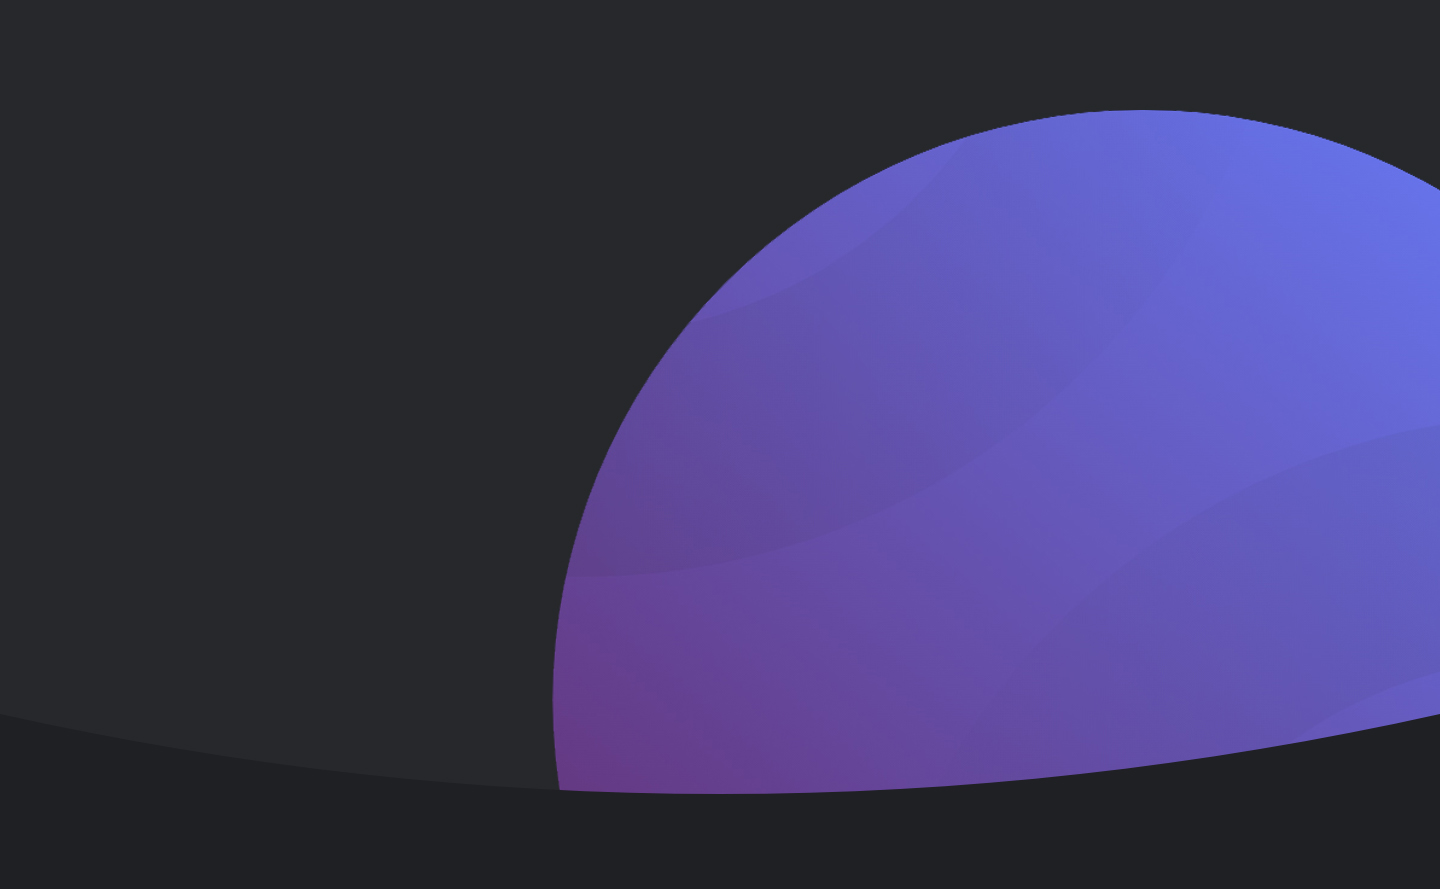
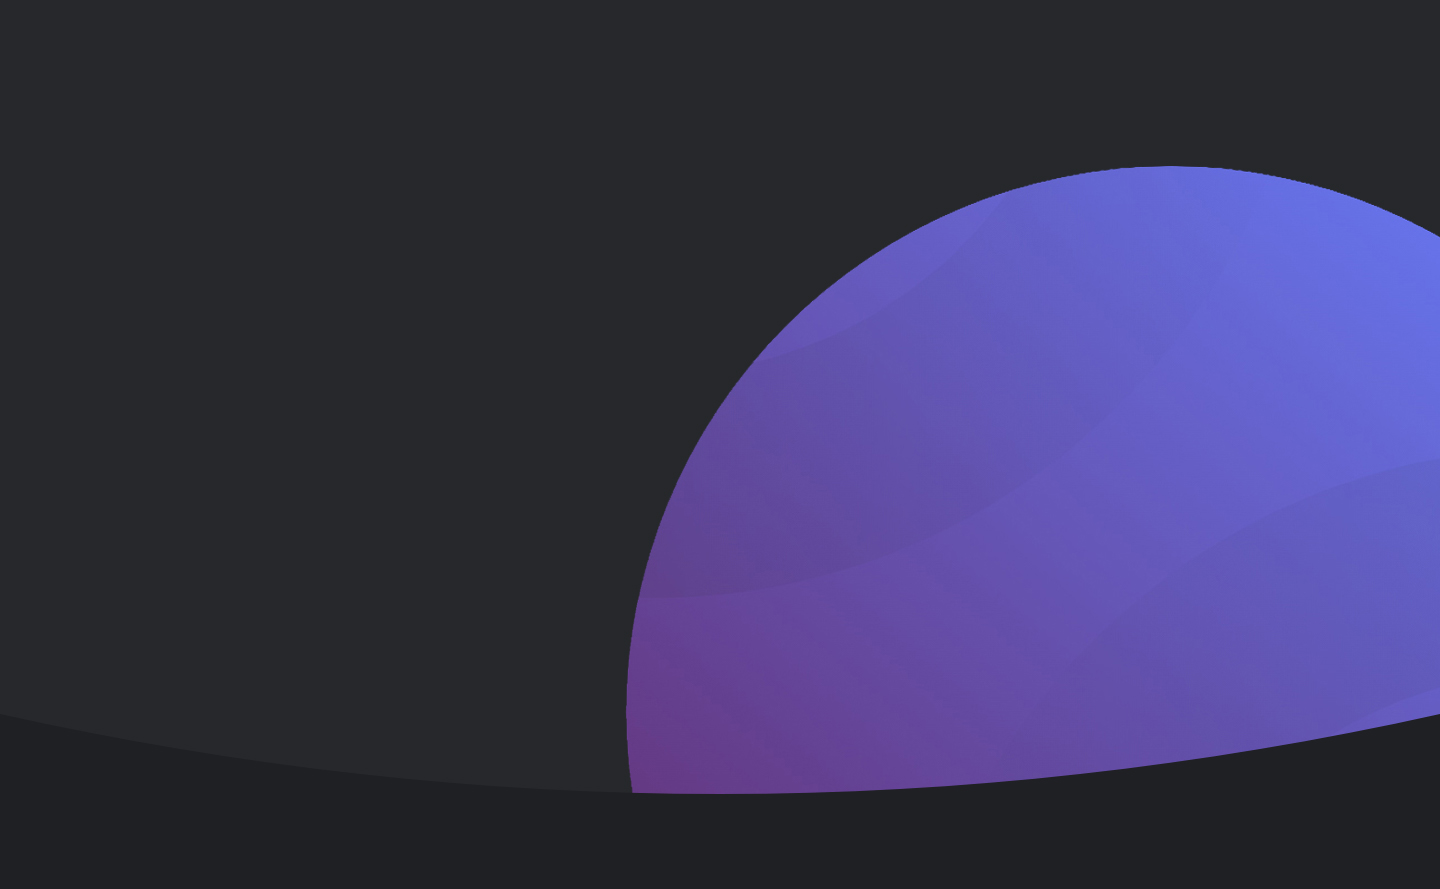
finish the section1 ..

Changed region(s): [[0.375, 0.1215, 1.0, 0.9111]]

diff --git a/empwr/css/scss/_bscore_custom.scss b/empwr/css/scss/_bscore_custom.scss
@@ -53,8 +53,14 @@ h1, .h1, h2, .h2, h3, .h3, h4, .h4, h5, .h5, h6, .h6{
   @extend .font-primary-medium;
 }
 
-.text-color-1{
-  color: $textColor-1!important;
+p{
+  @extend .mb-4;
+}
+
+.text{
+  &-color-1{ color: $textColor-1!important; }
+  &-primary-dark{ color: $primaryDark!important; }
+  &-gray-2{ color: $gray-2!important; }
 }
 
 .lh-p8{
@@ -72,21 +78,136 @@ h1, .h1, h2, .h2, h3, .h3, h4, .h4, h5, .h5, h6, .h6{
   &-cover{ background-size: cover; }
 }
 
-.w-120px{
-  width: $120px!important;
+.w{
+  &-120px{ width: $120px!important; }
+  &-450px{ width: $450px!important; }
 }
 
 .rounded{
+  &-8{ border-radius: $8px!important; }
   &-10{ border-radius: $10px!important; }
   &-50{ border-radius: $50px!important; }
 }
 
+.border{
+  &-top-right-rounded-30{ border-top-right-radius: $30px!important }
+  &-top-left-rounded-30{ border-top-left-radius: $30px!important }
+  &-bottom-left-rounded-30{ border-bottom-left-radius: $30px!important }
+  &-bottom-right-rounded-4{ border-bottom-right-radius: $4px!important }
+}
+
+.duplicate-to-white{
+  @extend .position-relative;
+  &:before{
+    @extend .position-absolute;
+    @extend .h-100;
+    @extend .w-100;
+    @extend .top-0;
+    @extend .start-0;
+    @extend .border-top-right-rounded-30;
+    @extend .border-top-left-rounded-30;
+    @extend .border-bottom-left-rounded-30;
+    @extend .border-bottom-right-rounded-4;
+    @extend .bg-white;
+    @extend .ms-1;
+    @extend .mt-n1;
+    content: '';
+  }
+}
+
+.z-index{
+  &-1{ z-index: 1!important; }
+  &-11{ z-index: 11!important; }
+}
+
+.text{
+  &-xs{ font-size: $12px!important; }
+  &-sm{ font-size: $14px!important; }
+}
+
+.mt{
+  &-n1{
+    margin-top: -0.25rem !important
+  }
+  &-6{ margin-top: 3.5rem !important; }
+  &-7{ margin-top: 4rem !important; }
+  &-8{ margin-top: 4.5rem !important; }
+  &-9{ margin-top: 5.5rem !important; }
+  &-10{ margin-top: 6rem !important; }
+  &-11{ margin-top: 6.5rem !important; }
+  &-12{ margin-top: 7rem !important; }
+  &-13{ margin-top: 7.5rem !important; }
+  &-14{ margin-top: 8rem !important; }
+  &-15{ margin-top: 8.5rem !important; }
+}
+
+.ms{
+  &-n5{ margin-left: -3rem !important }
+  &-n6{ margin-left: -3.5rem !important }
+  &-n7{ margin-left: -4rem !important }
+  &-n8{ margin-left: -4.5rem !important }
+  &-n9{ margin-left: -5rem !important }
+}
+
 // Custom
 
+.placeholder-text-gray-1::-webkit-input-placeholder {
+  color: $gray-1!important;
+}
+.placeholder-text-gray-1::-moz-placeholder {
+  color: $gray-1!important;
+}
+.placeholder-text-gray-1:-ms-input-placeholder {
+  color: $gray-1!important;
+}
+.placeholder-text-gray-1:-moz-placeholder {
+  color: $gray-1!important;
+}
+
+.wpcf7 form .wpcf7{
+  &-not-valid-tip {
+      @extend .text-white;
+      @extend .text-xs;
+      @extend .d-block;
+      @extend .mt-2;
+  }
+  &-response-output{
+    @extend .m-0;
+    @extend .p-3;
+    @extend .rounded-8;
+    @extend .text-sm;
+  }
+  br,
+  &-spinner{ @extend .d-none; }
+}
+
 .fields-v2{
-  input{
+  input[type="email"]{
     @extend .bg-brand-2;
     @extend .rounded-10;
+    @extend .border-0;
+    @extend .py-3;
+    @extend .ps-3;
+    @extend .pe-3;
+    @extend .text-white;
+    @extend .w-100;
+    @extend .placeholder-text-gray-1;
+  }
+  input[type="submit"]{
+    @extend .position-absolute;
+    @extend .top-0;
+    @extend .end-0;
+    @extend .py-1;
+    @extend .px-3;
+    @extend .rounded-8;
+    @extend .bg-primary;
+    @extend .text-white;
+    @extend .border-0;
+    margin-top: 12px;
+    margin-right: 12px;
+  }
+  .wpcf7-form p{
+    @extend .position-relative;
   }
 }
 

diff --git a/empwr/css/scss/_bscore_variables.scss b/empwr/css/scss/_bscore_variables.scss
@@ -2,13 +2,22 @@
 // Do you want primary to be green? Just add "$primary: #00FF00;" to this file and the theme will automatically compile the scss for you.
 
 $primary: #6676ef;
+$primaryDark: #6676EF;
 
 $brand-1: #26282B;
 $brand-2: #1B1B1C;
 
+$gray-1: #565656;
+$gray-2: #8D92A3;
 
 $textColor-1: #F1F1F1;
 
+$4px: 4px;
+$8px: 8px;
 $10px: 10px;
+$12px: 12px;
+$14px: 14px;
+$30px: 30px;
 $50px: 50px;
 $120px: 120px;
+$450px: 450px;

diff --git a/empwr/template-parts/content-section-1.php b/empwr/template-parts/content-section-1.php
@@ -9,26 +9,38 @@
 
 ?>
 
-<section class="bg-center bg-cover pt-5" style="background-image: url(<?php echo esc_url(get_stylesheet_directory_uri()); ?>/img/bg/bg-section-1.jpg)">
-  <div class="container mt-5 pt-5">
+<section class="pt-5 position-relative">
+  <div class="bg-center bg-cover position-absolute left-0 top-0 w-100 h-100" style="background-image: url(<?php echo esc_url(get_stylesheet_directory_uri()); ?>/img/bg/bg-section-1.jpg)"></div>
+  <div class="container mt-5 pt-5 position-relative z-index-1 pb-5">
     <div class="row pt-5">
       <div class="col-md-4">
 
-        <h1 class="lh-p8 text-white mb-4">
-          EMPWER<br />
+        <h1 class="lh-p8 text-white mb-4 pb-2">
+          EMPWR<br />
           <span class="h4">Your Safe Space, 24/7.</span>
         </h1>
         <div class="text-color-1 mb-5">
           <p>Sharing your thoughts can be easy. Sometimes it isn't. EMPWR is a safe social network that’s based on support. A space where you can be safe, anonymous and free to be yourself. Test Pushed</p>
 
           <p>Sign up to be the first to experience EMPWR.</p>
-          <div class="fields-v2">
+          <div class="fields-v2 mt-5">
             <?php echo do_shortcode( '[contact-form-7 id="8" title="Contact form 1"]' ); ?>
+          </div>
+          <div>
+            <span class="text-primary-dark">Start scrolling</span> to know more
           </div>
         </div>
       </div>
-      <div class="col-md-8">
-
+      <div class="col-md-8 text-end">
+        <div class="position-relative d-inline-block">
+          <div class="bg-primary position-absolute px-4 py-2 border-top-right-rounded-30 border-top-left-rounded-30 border-bottom-left-rounded-30 border-bottom-right-rounded-4 duplicate-to-white mt-15 ms-n8">
+            <div class="position-relative z-index-1 ms-1 mt-n1 text-start">
+              <div class="text-xs text-gray-2">EMPWR APP</div>
+              <div class="font-primary-bold text-primary mt-n1">Coming Soon</div>
+            </div>
+          </div>
+          <img src="<?php echo esc_url(get_stylesheet_directory_uri()); ?>/img/graphic-1.png" class="img-response w-450px"/>
+        </div>
       </div>
     </div>
   </div>
